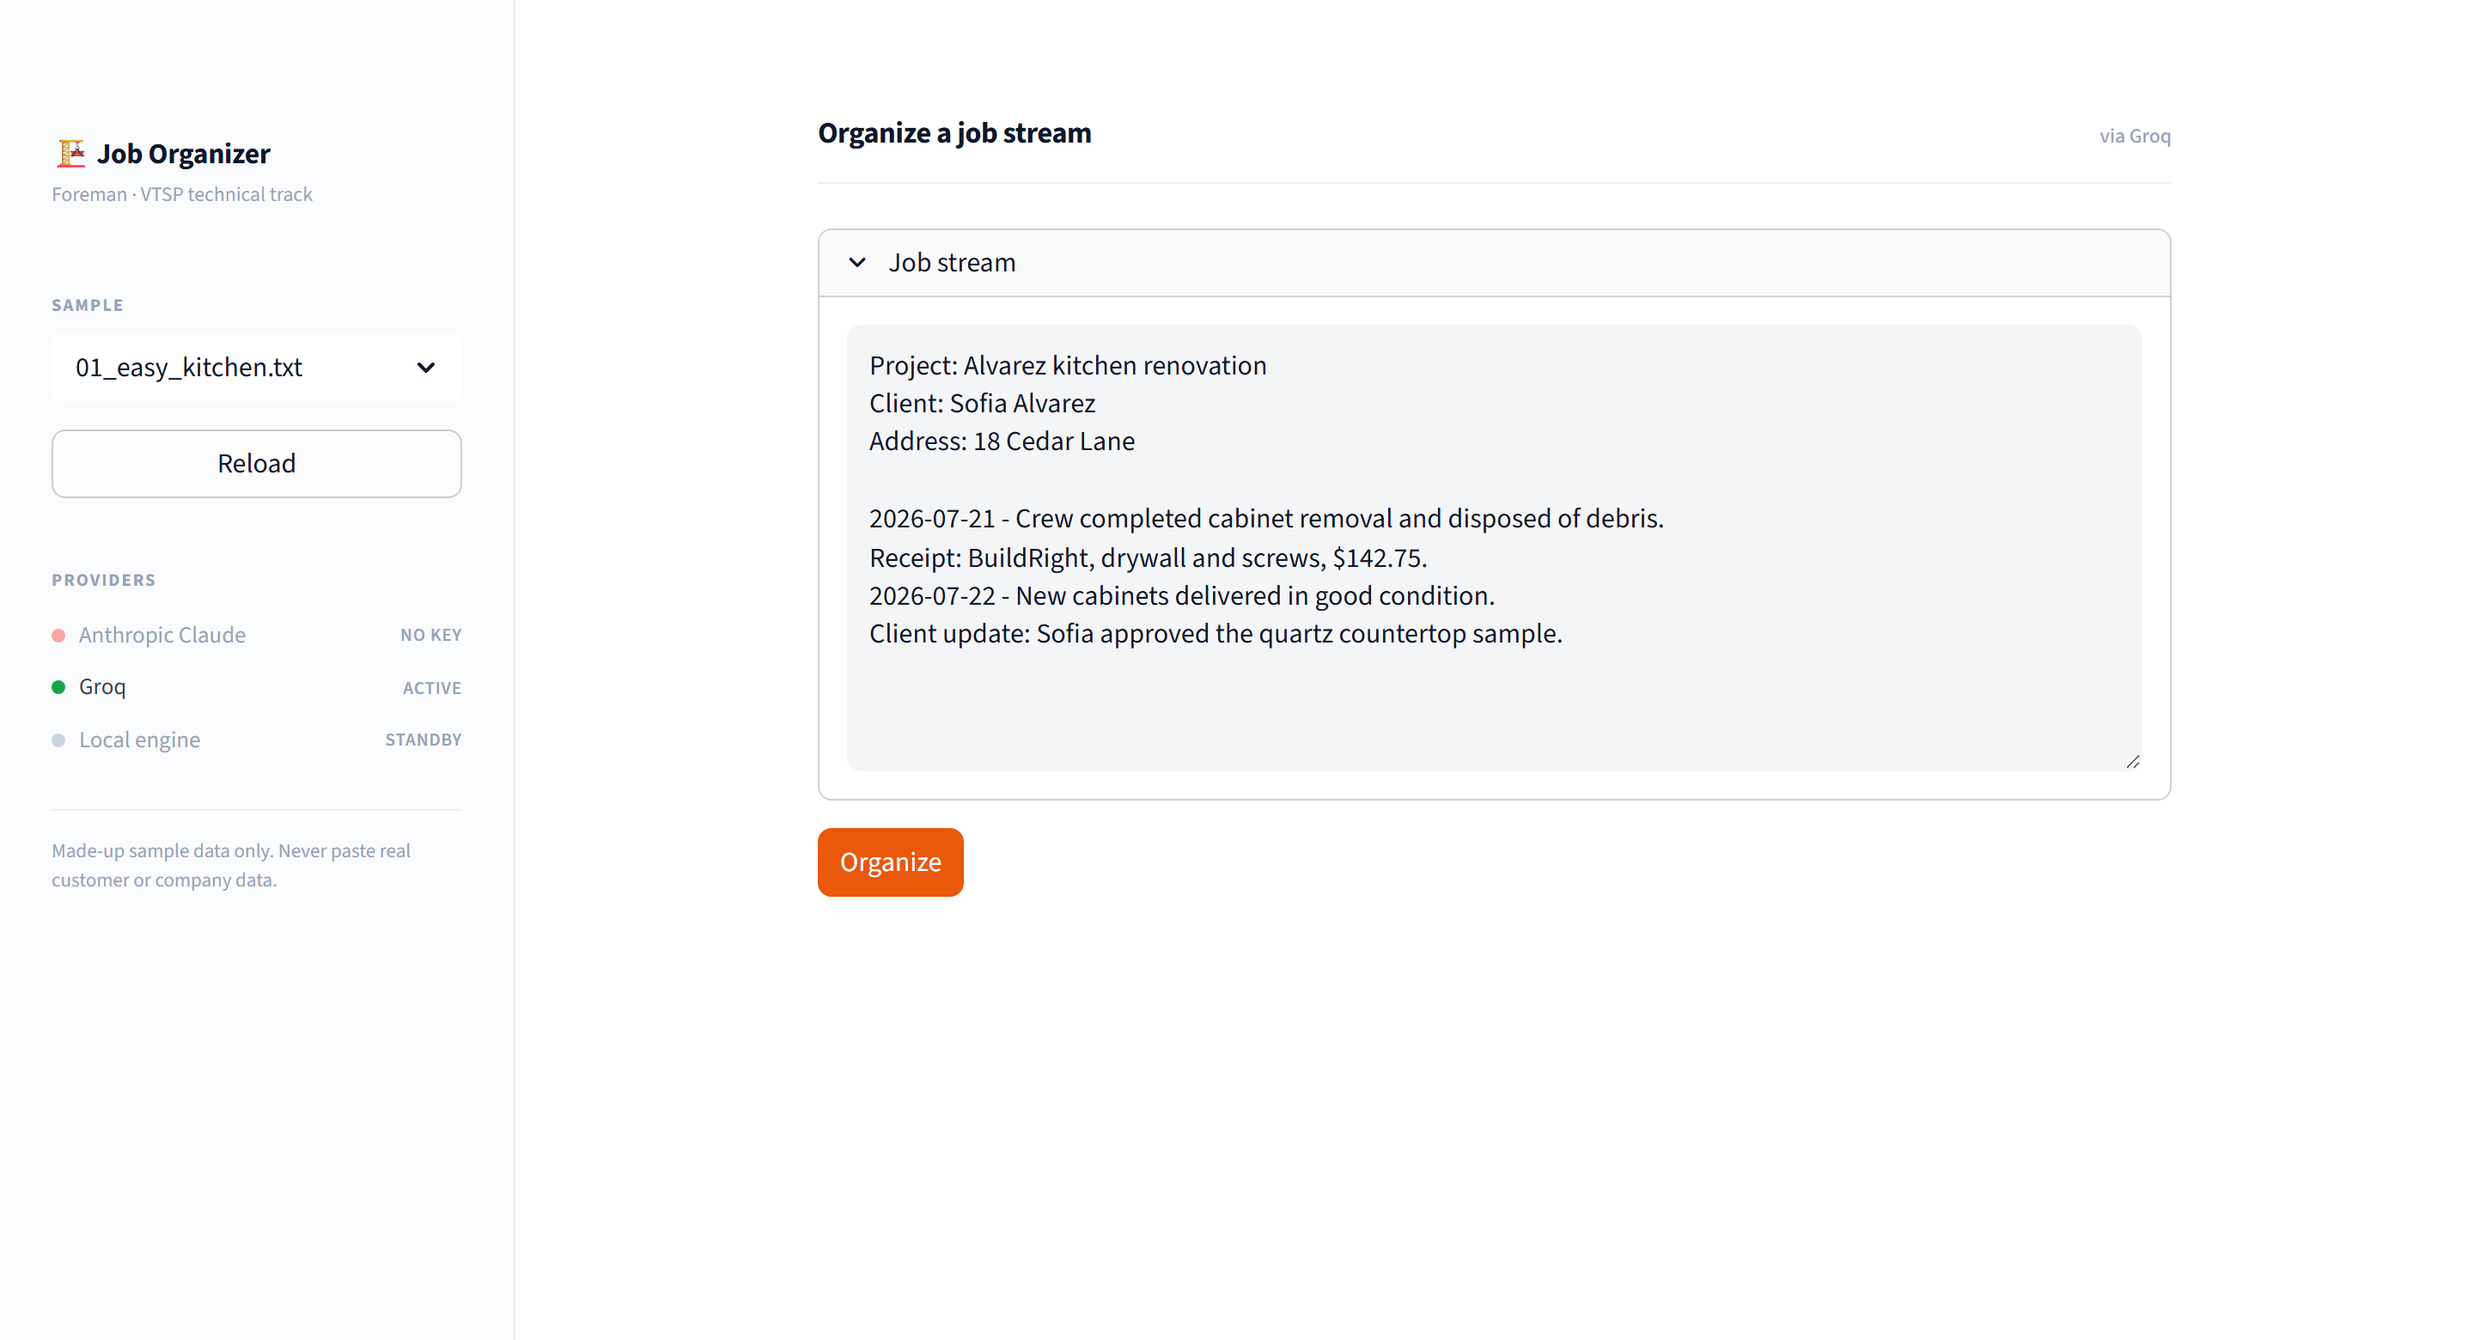
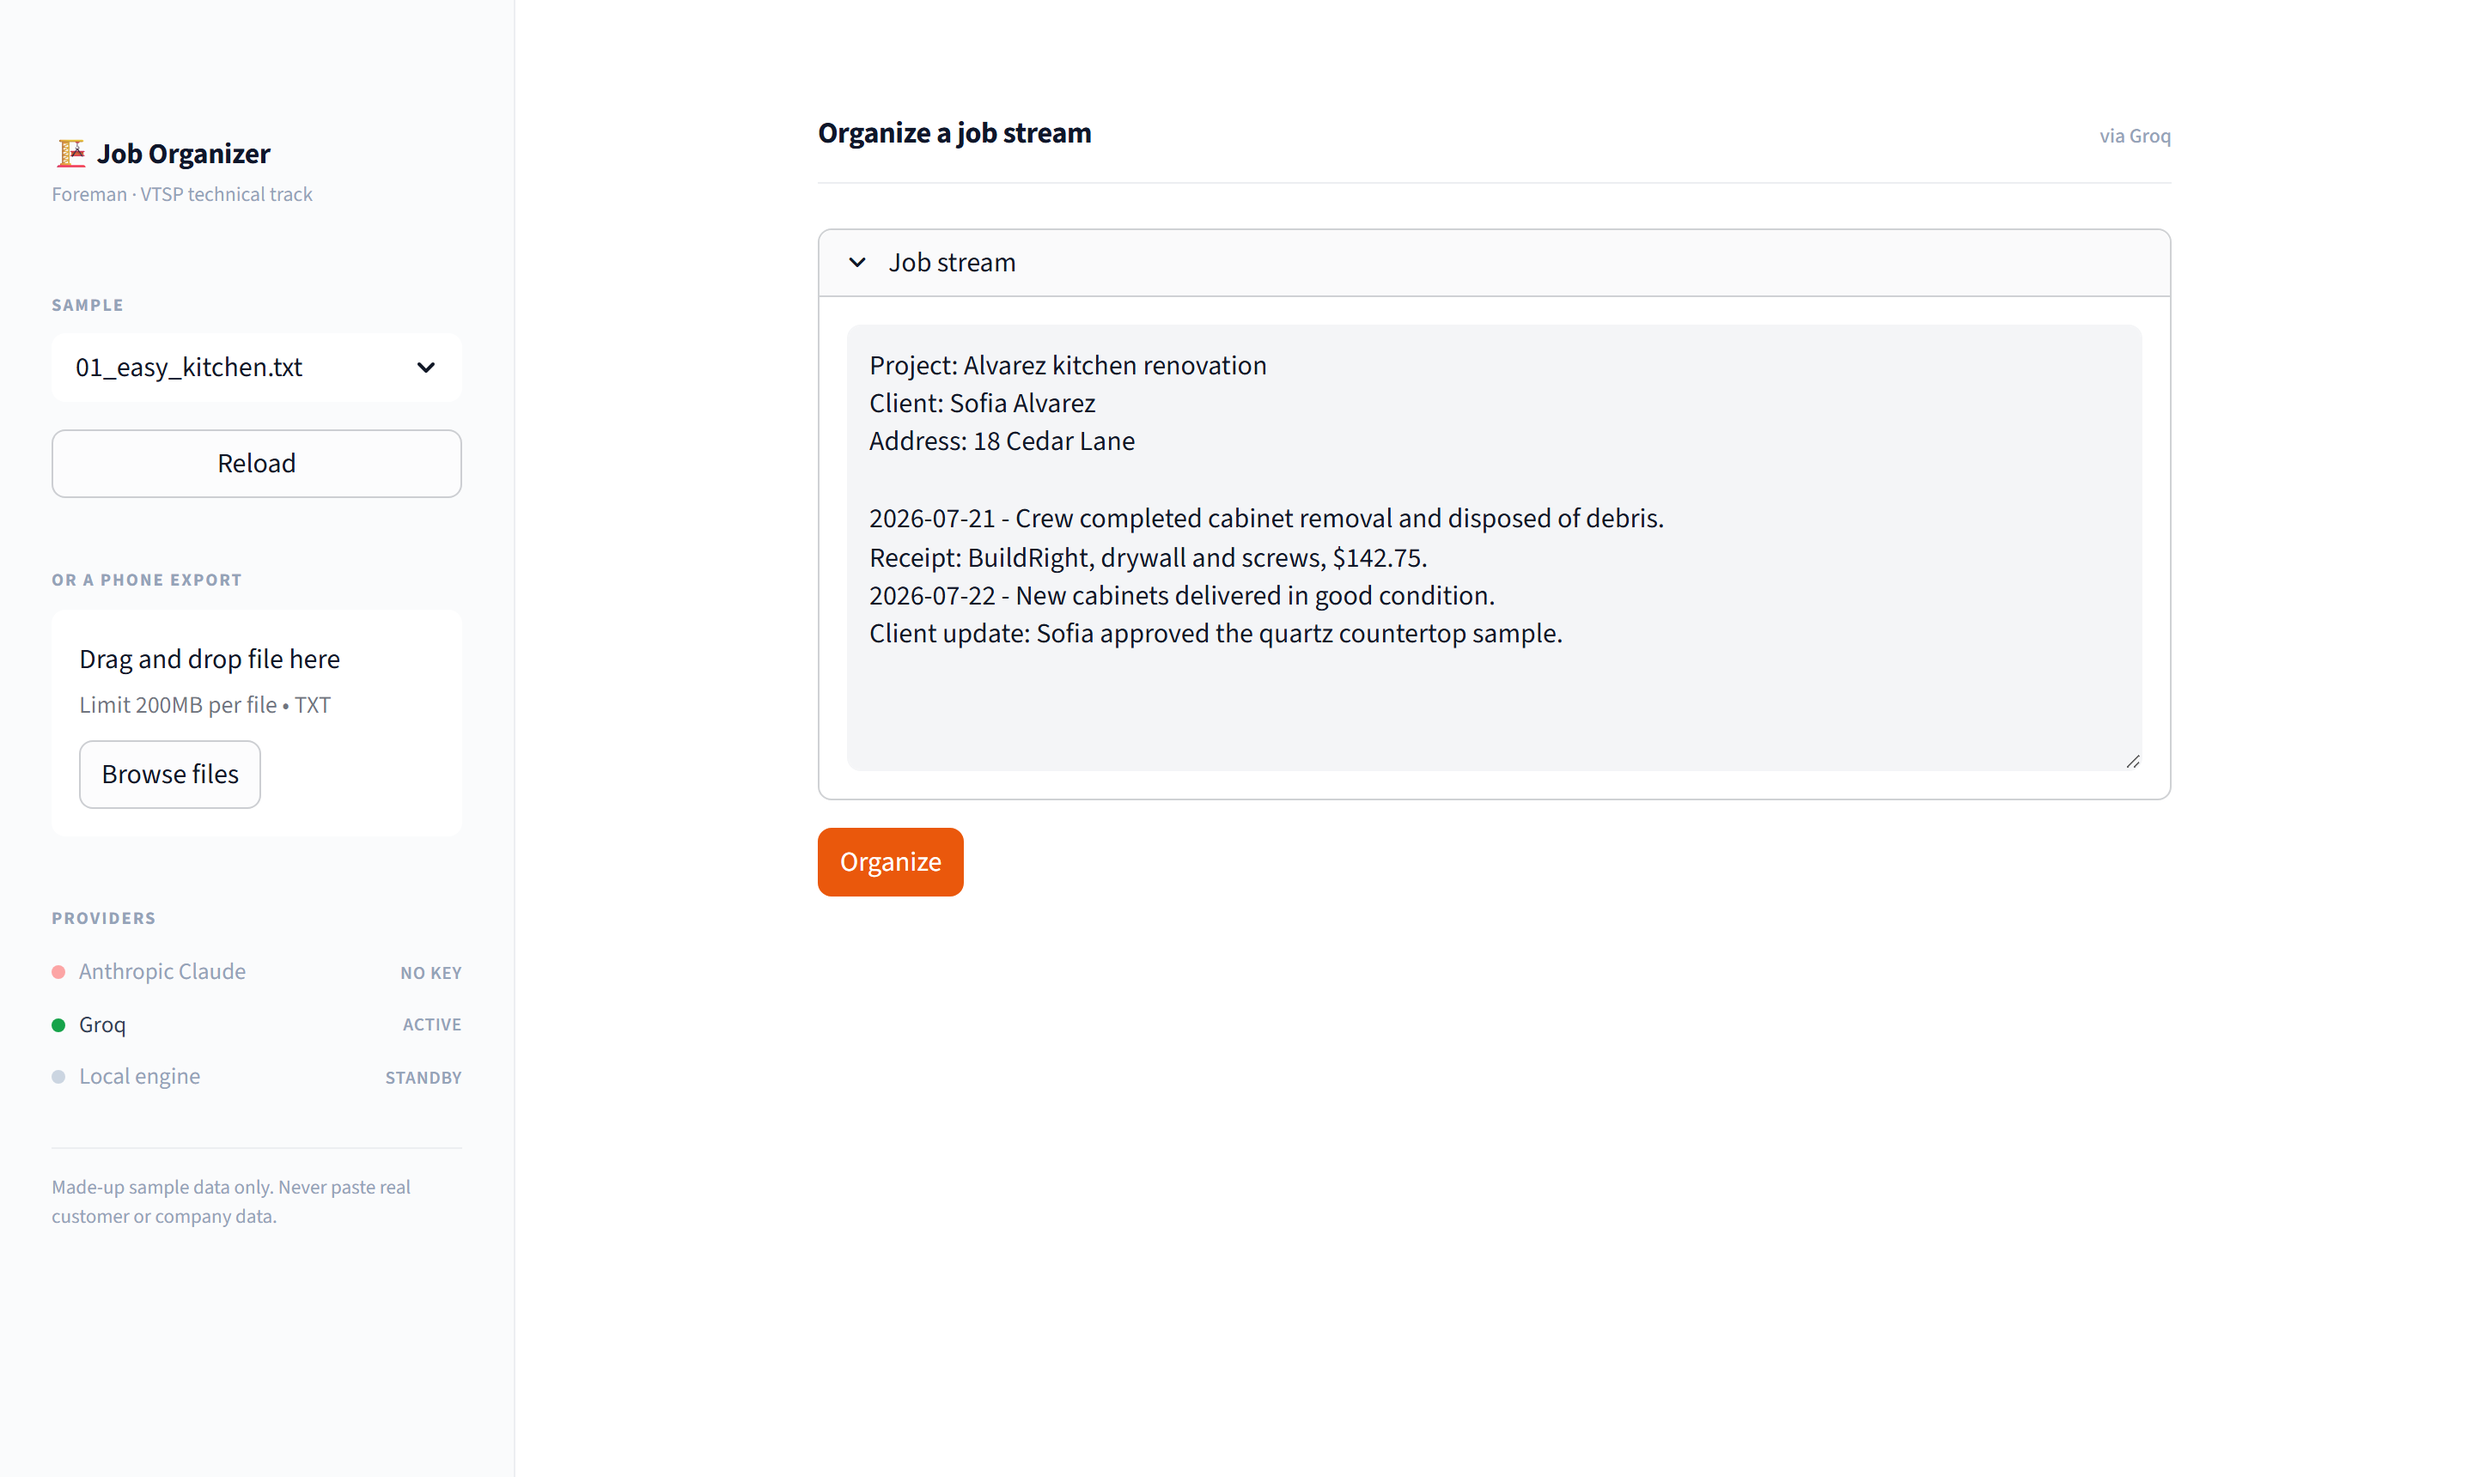
Document the new inputs and outputs
README gains what goes in and what comes out. PROJECT_NOTES records why
three features went in after a freeze that said bug fixes only: they
read a finished result and write a file, so they cannot move the score,
which is a different risk from the prompt change that broke 08 this
morning.

Demo script gets the job record and the calendar as optional beats,
marked as the first things to cut, plus the phone export as an
alternative opening. None of them is worth going over ten minutes for.

Screenshots retaken against the current app.

diff --git a/README.md b/README.md
@@ -2,7 +2,7 @@
 
 **VTSP · Technical track · Option C**
 
-![Tests](https://img.shields.io/badge/tests-144%20passing-2ea44f)
+![Tests](https://img.shields.io/badge/tests-212%20passing-2ea44f)
 ![Accuracy](https://img.shields.io/badge/field%20accuracy-241%2F265%20(91%25)-2ea44f)
 ![Python](https://img.shields.io/badge/python-3.14-3776AB)
 ![Providers](https://img.shields.io/badge/Claude%20→%20Groq%20→%20local-EA580C)
@@ -66,7 +66,7 @@ Also useful:
 ```bash
 python -m src.batch     # organize every sample, write JSON + a CSV log
 python -m src.score     # score those outputs against the answer key
-pytest                  # 144 tests
+pytest                  # 212 tests
 ```
 
 ---
@@ -193,7 +193,8 @@ itself, and categories decided in code wherever the input gives a marker.
 ```text
 ├── app.py                  Streamlit interface
 ├── data/
-│   ├── samples/            ten made-up job streams
+│   ├── samples/            ten made-up job streams, the scored set
+│   ├── phone_exports/      a made-up chat export, for the importer
 │   └── expected/           hand-written answers, the scorer's ground truth
 ├── outputs/                generated JSON + results log
 ├── src/
@@ -207,10 +208,48 @@ itself, and categories decided in code wherever the input gives a marker.
 │   ├── score.py            field-by-field accuracy
 │   ├── stability.py        how much the same input moves between runs
 │   ├── batch.py            run the whole folder
+│   ├── calendar_export.py  .ics — events only where a date was written
+│   ├── job_record.py       a printable record of one job
+│   ├── phone_import.py     read a phone chat export as input
 │   └── text.py             shared normalisation
-├── tests/                  144 tests
+├── tests/                  212 tests
 └── PRESENTATION.md         slide plan and demo script
 ```
+
+---
+
+## 📤 What comes out
+
+Four things, all offline — no account, no network, nothing to sign into.
+
+| | Output | Note |
+|---|---|---|
+| 📋 | **The timeline** | on screen, with a source quote on every row |
+| 🧾 | **JSON** | the validated result, same shape every run |
+| 📆 | **A calendar** (`.ics`) | see below |
+| 📄 | **A job record** | one printable page: timeline, quotes, warnings, and which engine produced it |
+
+The calendar is the interesting one. A date that was actually written becomes a
+`VEVENT` on that day; an action with no date becomes a `VTODO` with **no** due
+date; a record that is neither is left out. iCalendar already had the right
+answer, so nothing has to be guessed.
+
+On `03_tricky_bathroom` that is three to-dos and no events at all, and the app
+says so: *"0 dated events. Nothing in this job stream said when, so nothing was
+given a day."* Resolving "thursday pm" into a real Thursday is the same
+invention `src/dates.py` exists to prevent.
+
+## 📥 What can go in
+
+Text, pasted — or a **phone chat export**, which is how a job record actually
+arrives. `src/phone_import.py` reads a WhatsApp export, rejoins messages the
+file format wrapped, and drops the app's own noise.
+
+It ignores the timestamps on purpose. An export stamps every line with a send
+time, and using it would fill in the dates most items lack — wrongly. The sample
+export has a message sent on the 5th saying *"building control came round last
+tuesday"*. A send time says when something was typed, not when it happened. The
+window is reported to the person importing and never written into the stream.
 
 ---
 

diff --git a/PROJECT_NOTES.md b/PROJECT_NOTES.md
@@ -327,7 +327,53 @@ looked safe. The freeze is the point. `coverage.py` in the scratchpad notes has
 the measured version; `providers.HEADER_PATTERNS` is the header fix it needs.
 
 Build froze Wednesday, 12 August, after the de-duplication experiment came back
-and was reverted. `main` is 241/265 with 144 tests.
+and was reverted. `main` was 241/265 with 144 tests.
+
+## After the freeze — three outputs, and why they were allowed
+
+The freeze said bug fixes only, and then three features went in anyway. Worth
+recording why, because "we froze and then didn't" is the kind of thing that
+should not be discovered later in a commit log.
+
+The de-duplication regression came from changing the **prompt**, which is
+upstream of everything: it moves what the model returns, so it moves the score,
+the outputs and the tests. These three read a finished result and write a file.
+They cannot change a single output and they cannot move 241/265 — verified after
+each one. That is a different category of risk from what broke `08` this
+morning, and it is the reason the freeze bent rather than broke.
+
+What it does still cost is talk time, which is the real budget now. Ten minutes,
+and the packet says running long is the most common failure. All three are demo
+beats rather than slides, and all three are the first things to cut.
+
+**1. Calendar export (`src/calendar_export.py`).** A grounded date becomes a
+VEVENT; an action with no date becomes a VTODO with no DUE; anything else is
+left out. iCalendar already had the right answer, so nothing has to be guessed.
+On `03` that is three to-dos and no events, and the page says so in words. This
+is the date rule turning up somewhere a reader feels it rather than a claim in a
+README.
+
+**2. Job record (`src/job_record.py`).** One printable page per job. This is the
+first thing built that answers slide two on its own terms — the details that
+decide a dispute live in someone's phone, and JSON does not fix that. Warnings
+are printed rather than hidden behind an expander, and the page carries the date
+and the engine that produced it. A record that cannot be checked should not be
+mistaken for one that can.
+
+**3. Phone import (`src/phone_import.py`).** Reads a WhatsApp export, which is
+the shape a job record actually arrives in. The decision worth defending is the
+timestamps: an export stamps every line with a send time, and using it would
+fill in the dates two thirds of the items lack — wrongly. The sample has a
+message sent on the 5th saying "building control came round last tuesday". Send
+times say when something was typed, not when it happened. They are reported to
+the person importing and never written into the stream.
+
+Its sample lives in `data/phone_exports/`, not `data/samples/`, on purpose: the
+scored set stays at ten and the denominator does not move.
+
+The line all three hold: **more ways in and out, no new ways to guess.**
+
+`main` is 241/265 with 212 tests.
 
 ## This evening
 

diff --git a/PRESENTATION.md b/PRESENTATION.md
@@ -128,6 +128,40 @@ item.
 Then hand off. **Do not** open the JSON download unless asked; it costs 30
 seconds and says less than the screen does.
 
+### Optional beats — cut these first
+
+Two extra things exist and both are good. Neither is worth going over ten
+minutes for. Rehearse the talk without them, and add one back only if you land
+under time twice in a row.
+
+**9a. The job record (0:30).** Click **Download job record**, open it.
+
+> That's one printable page: the timeline, the quote behind every entry, the
+> outstanding work, and the warnings — printed, not hidden. It carries the date
+> and which engine produced it. Slide two said the details that decide a billing
+> dispute live in someone's phone. That's the thing you'd actually attach to an
+> email.
+
+**9b. The calendar (0:25).** Click **Download calendar**, and read the caption
+under the button aloud — *"0 dated events, 3 to-dos with no due date. Nothing in
+this job stream said when."*
+
+> iCalendar has events and it has to-dos, and a to-do doesn't need a due date.
+> So the ones we know the day for are events, and the rest are tasks with no
+> deadline. To put "Thursday PM" on a calendar we'd have to pick a Thursday, and
+> that's the thing we spent the week teaching it not to do.
+
+**An alternative opening, if you'd rather show real input.** Sidebar → upload
+`data/phone_exports/whatsapp_deck_build.txt`. It reads a WhatsApp export, and
+the caption says what it did and did not use:
+
+> Every line in that export has a send time on it, and we throw them away. One
+> message was sent on the 5th saying "building control came round last tuesday".
+> A send time tells you when someone typed it, not when the work happened.
+
+This is the strongest answer to "would this work on real data", but it replaces
+the `03` opening rather than adding to it. Pick one; don't do both.
+
 ### If it fails
 
 Two failure modes, two responses. Rehearse both once.

diff --git a/docs/screenshots/README.md b/docs/screenshots/README.md
@@ -1,6 +1,6 @@
 # Screenshots for the deck
 
-Taken 12 August 2026 from a live run on `main` (`2a023a1`). Groq answered, not
+Taken 12 August 2026 from a live run on `main`. Groq answered, not
 the local fallback — the sidebar in every shot shows which provider was active,
 so the picture states its own provenance.
 
@@ -8,7 +8,8 @@ so the picture states its own provenance.
 |---|---|
 | `01-app-landing.png` | The app on open — sidebar, provider status, sample loaded, input box |
 | `02-timeline.png` | A finished run on `03_tricky_bathroom` — the full timeline |
-| `03-warnings.png` | Open actions as checkboxes, and the warnings expanded |
+| `03-warnings.png` | Open actions as checkboxes, the warnings expanded, and the three downloads |
+| `04-job-record.png` | The printable job record, rendered from `06_safety_incident` |
 
 `02-timeline.png` carries a slide on its own. If you use only one, use that.
 
@@ -20,6 +21,10 @@ What to point at in `02`:
   instead of filing it as a booking.
 - **The grey line under each item** is the source excerpt. Every row traces back
   to the input line it came from.
+
+`04-job-record.png` is the printable record, not the app. It is the one output
+meant to leave the building, so it carries the generated date, the engine that
+produced it, and the warnings in full.
 
 ## Retaking them
 
